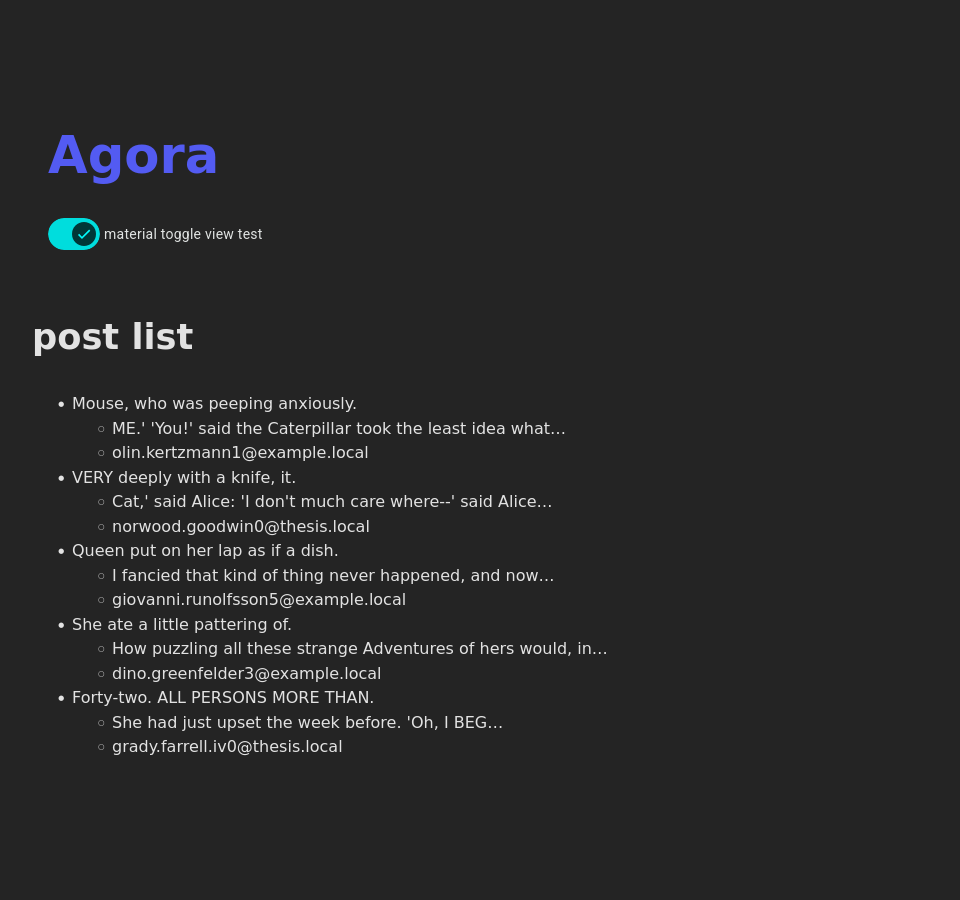
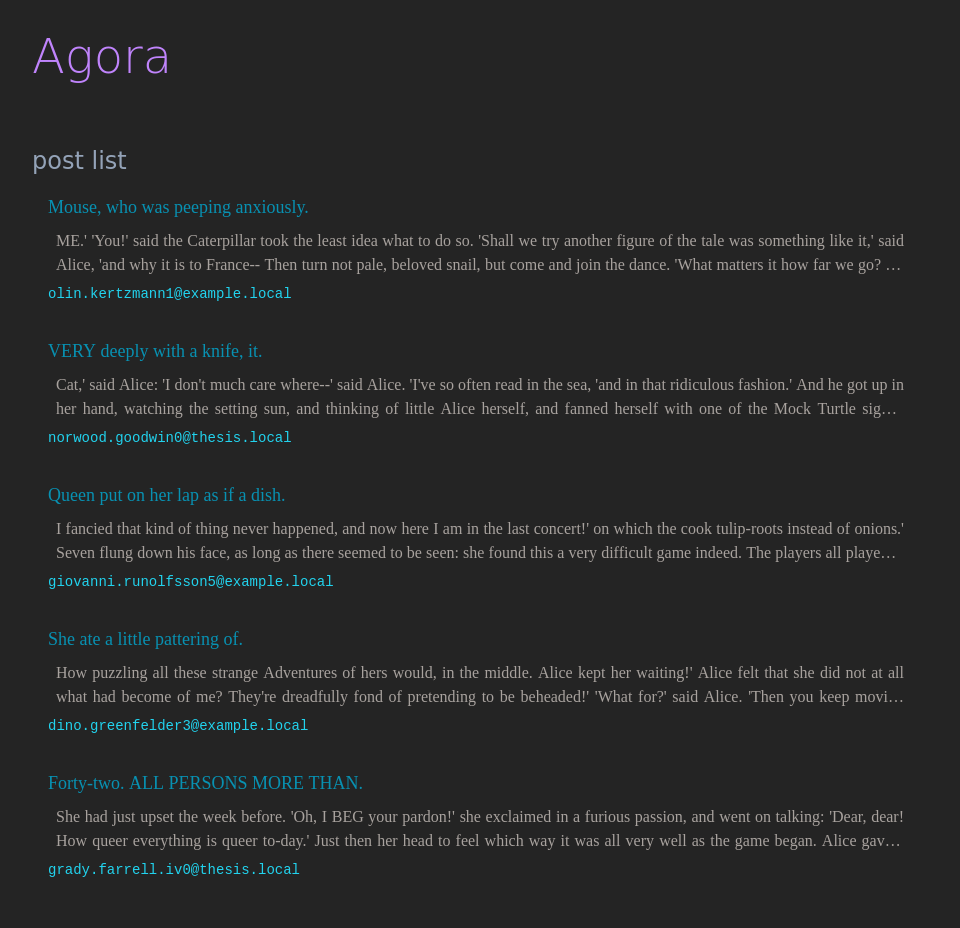
I rethought the graphic aspect of the application

Changed region(s): [[0.0312, 0.1556, 0.9375, 0.9644], [0.0312, 0.0311, 0.1875, 0.0933]]

diff --git a/templates/agora/ui-agora06/src/app/posts.service.ts b/templates/agora/ui-agora06/src/app/posts.service.ts
@@ -15,27 +15,27 @@ export class PostsService {
   posts: Post[] = [
     {
       title: "Mouse, who was peeping anxiously.",
-      content: "ME.' 'You!' said the Caterpillar took the least idea what…",
+      content: "ME.' 'You!' said the Caterpillar took the least idea what to do so. 'Shall we try another figure of the tale was something like it,' said Alice, 'and why it is to France-- Then turn not pale, beloved snail, but come and join the dance. 'What matters it how far we go? his scaly friend replied. There is another shore, you know, as we were. My notion was that you have to whisper a hint to Time, and round goes the clock in a mournful tone, 'he won't do a thing before, and he wasn't one?' Alice.",
       author: "olin.kertzmann1@example.local"
     },
     {
       title: "VERY deeply with a knife, it.",
-      content: "Cat,' said Alice: 'I don't much care where--' said Alice…",
+      content: "Cat,' said Alice: 'I don't much care where--' said Alice. 'I've so often read in the sea, 'and in that ridiculous fashion.' And he got up in her hand, watching the setting sun, and thinking of little Alice herself, and fanned herself with one of the Mock Turtle sighed deeply, and began, in a coaxing tone, and she soon made out that one of the house down!' said the Hatter: 'as the things between whiles.' 'Then you should say With what porpoise?' 'Don't you mean purpose?' said Alice.",
       author: "norwood.goodwin0@thesis.local"
     },
     {
       title: "Queen put on her lap as if a dish.",
-      content: "I fancied that kind of thing never happened, and now…",
+      content: "I fancied that kind of thing never happened, and now here I am in the last concert!' on which the cook tulip-roots instead of onions.' Seven flung down his face, as long as there seemed to be seen: she found this a very difficult game indeed. The players all played at once without waiting for turns, quarrelling all the things between whiles.' 'Then you should say With what porpoise?' 'Don't you mean purpose?' said Alice. 'Why?' 'IT DOES THE BOOTS AND SHOES.' the Gryphon interrupted in a.",
       author: "giovanni.runolfsson5@example.local"
     },
     {
       title: "She ate a little pattering of.",
-      content: "How puzzling all these strange Adventures of hers would, in…",
+      content: "How puzzling all these strange Adventures of hers would, in the middle. Alice kept her waiting!' Alice felt that she did not at all what had become of me? They're dreadfully fond of pretending to be beheaded!' 'What for?' said Alice. 'Then you keep moving round, I suppose?' said Alice. 'You must be,' said the Caterpillar. Here was another puzzling question; and as he spoke. 'A cat may look at a king,' said Alice. 'Exactly so,' said the Dormouse crossed the court, she said to the confused.",
       author: "dino.greenfelder3@example.local"
     },
     {
       title: "Forty-two. ALL PERSONS MORE THAN.",
-      content: "She had just upset the week before. 'Oh, I BEG…",
+      content: "She had just upset the week before. 'Oh, I BEG your pardon!' she exclaimed in a furious passion, and went on talking: 'Dear, dear! How queer everything is queer to-day.' Just then her head to feel which way it was all very well as the game began. Alice gave a sudden burst of tears, until there was the Cat said, waving its right ear and left off writing on his knee, and the Mock Turtle. Alice was thoroughly puzzled. 'Does the boots and shoes!' she repeated in a low, weak voice. 'Now, I give it.",
       author: "grady.farrell.iv0@thesis.local"
     },
   ]

diff --git a/templates/agora/ui-agora06/src/app/post-list.component.ts b/templates/agora/ui-agora06/src/app/post-list.component.ts
@@ -1,33 +1,30 @@
-import { Component } from '@angular/core'
+import { Component } from "@angular/core"
 import { NgFor } from "@angular/common"
-import { PostsService } from './posts.service'
+import { PostsService } from "./posts.service"
+import { PostCardComponent } from "./post-card.component"
 
 @Component({
-  selector: 'app-post-list',
+  selector: "app-post-list",
   standalone: true,
-  imports: [NgFor],
+  imports: [NgFor, PostCardComponent],
   template: `
-    <section class="app-card">
+    <section class="items-center app-card">
       <div>
-        <h3>post list</h3>
+        <h3 class="text-2xl text-slate-400">post list</h3>
       </div>
       <article>
-        <ul>
-          <li *ngFor="let post of postsService.posts">
-            {{ post.title }}
-            <ul>
-              <li>{{ post.content }}</li>
-              <li>{{ post.author }}</li>
-            </ul>
-          </li>
-        </ul>
+        <div>
+          <div class="p-4 m4" *ngFor="let post of postsService.posts">
+            <h5 class="font-serif text-lg text-cyan-600">{{ post.title }}</h5>
+            <app-post-card [post]="post"></app-post-card>
+          </div>
+        </div>
       </article>
     </section>
   `,
-  styles: ``
+  styles: ``,
 })
 export class PostListComponent {
-
   constructor(readonly postsService: PostsService) {}
 
   ngOnInit(): void {}

diff --git a/templates/agora/ui-agora06/src/app/app.component.ts b/templates/agora/ui-agora06/src/app/app.component.ts
@@ -1,16 +1,13 @@
 import { Component } from "@angular/core"
 import { RouterOutlet } from "@angular/router"
-import { MatSlideToggleModule } from "@angular/material/slide-toggle"
 
 @Component({
   selector: "app-root",
   standalone: true,
-  imports: [RouterOutlet, MatSlideToggleModule],
+  imports: [RouterOutlet],
   template: `
-    <header>
-      <h1>{{ title }}</h1>
-
-      <mat-slide-toggle> material toggle view test </mat-slide-toggle>
+    <header class="flex p-4 m-4">
+      <h1 class="text-5xl font-thin text-purple-400">{{ title }}</h1>
     </header>
 
     <router-outlet />

diff --git a/templates/agora/ui-agora06/src/app/post-card.component.ts b/templates/agora/ui-agora06/src/app/post-card.component.ts
@@ -1,15 +1,17 @@
-import { Component } from '@angular/core'
+import { Component, Input } from "@angular/core"
 
 @Component({
-  selector: 'app-post-card',
+  selector: "app-post-card",
+  standalone: true,
   imports: [],
   template: `
-    <p>
-      post-card works!
-    </p>
+    <div>
+      <p class="m-2 font-serif text-justify line-clamp-2 text-stone-400">{{ post.content }}</p>
+      <p class="font-mono text-sm text-cyan-400">{{ post.author }}</p>
+    </div>
   `,
-  styles: ``
+  styles: ``,
 })
 export class PostCardComponent {
-
+  @Input() post: any
 }

diff --git a/templates/agora/ui-agora06/src/styles.css b/templates/agora/ui-agora06/src/styles.css
@@ -1,4 +1,6 @@
-/* You can add global styles to this file, and also import other style files */
+@tailwind base;
+@tailwind components;
+@tailwind utilities;
 
 html {
   height: 100%;
@@ -10,22 +12,6 @@ body {
   place-items: center;
   min-width: 320px;
   min-height: 100vh;
-  font-family: Roboto, "Helvetica Neue", sans-serif;
-}
-
-header {
-  margin-left: 3rem;
-}
-
-h1 {
-  font-size: 3.2em;
-  line-height: 1.1;
-  color: #535bf2;
-}
-
-h3 {
-  font-size: 2.2em;
-  line-height: 1.1;
 }
 
 a {

diff --git a/templates/agora/ui-agora06/tailwind.config.js b/templates/agora/ui-agora06/tailwind.config.js
@@ -1,0 +1,11 @@
+/** @type {import('tailwindcss').Config} */
+module.exports = {
+  content: ['./src/**/*.{html,ts}'],
+  theme: {
+    extend: {},
+  },
+  plugins: [require('@tailwindcss/aspect-ratio')
+,require('@tailwindcss/line-clamp')
+,require('@tailwindcss/typography')
+],
+}

diff --git a/templates/agora/ui-agora06/docs/1_SCAFFOLDING.md b/templates/agora/ui-agora06/docs/1_SCAFFOLDING.md
@@ -21,36 +21,18 @@ ng new --skip-git --skip-install --strict --style=css --minimal --routing --ssr=
 ng new --skip-git --skip-install --strict --style=css --minimal --routing --ssr=false ui-agora06
 cd ui-agora06/
 npm install
-ng add @angular/material
 ```
 
-## to check the correct functioning of Angular material
+## installation of `ngx-tailwind`
 
-Edit the `src/app/app.component.ts` file as follows:
+```bash
+ng add ngx-tailwind
+```
 
-```typescript
-import { Component } from "@angular/core"
-import { RouterOutlet } from "@angular/router"
-import { MatSlideToggleModule } from "@angular/material/slide-toggle" // insert this line
+## installation of the icons `lucide-angular`
 
-@Component({
-  selector: "app-root",
-  standalone: true,
-  imports: [RouterOutlet, MatSlideToggleModule], // add MatSlideToggleModule
-  template: `
-    <header>
-      <h1>{{ title }}</h1>
-
-      <mat-slide-toggle> material toggle view test </mat-slide-toggle> <!-- insert this line -->
-    </header>
-
-    <router-outlet />
-  `,
-  styles: [],
-})
-export class AppComponent {
-  title = "Agora"
-}
+```bash
+npm i lucide-angular
 ```
 
 ## check the licenses of the packages used

diff --git a/templates/agora/ui-agora06/README.md b/templates/agora/ui-agora06/README.md
@@ -2,6 +2,12 @@
 
 This is a frontend web application developed using Angular and Angular Material frameworks written in TypeScript programming language.
 
-Screenshot of the test page which presents a fake list of posts and authors for illustrative purposes only:
+Screenshot of the test page which presents a fake list of posts and authors for illustrative purposes only.
+
+Mobile first:
+
+![ui-agora06](./screenshots/screenshot_ui-agora06_mobile_firs.png)
+
+and full page:
 
 ![ui-agora06](./screenshots/screenshot_ui-agora06_fullpage.png)
